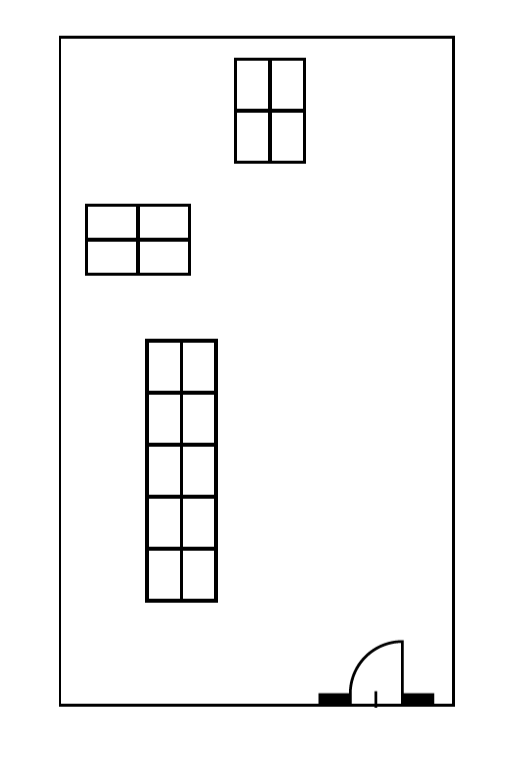
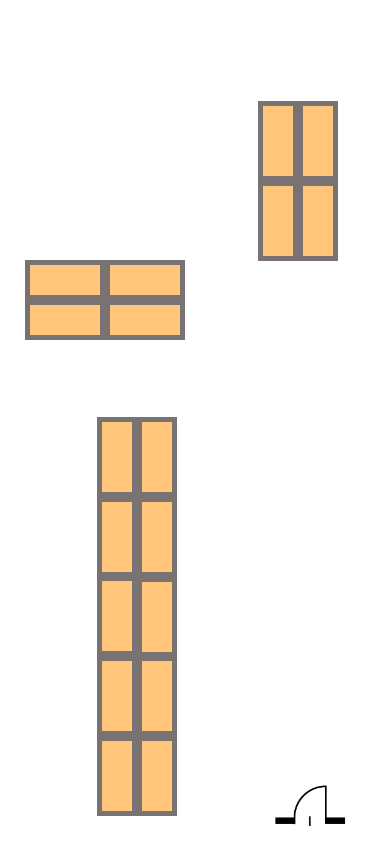
map画像を挿入!

Changed region(s): [[0.0615, 0.0608, 0.9231, 1.0], [0.1231, 0.0304, 0.8923, 0.2431]]

diff --git a/templates/map.html b/templates/map.html
@@ -7,7 +7,8 @@
     <meta name="viewport" content="width=device-width, initial-scale=1.0">
     <link href="https://cdn.jsdelivr.net/npm/bootstrap@5.0.2/dist/css/bootstrap.min.css" rel="stylesheet"
         integrity="sha384-EVSTQN3/azprG1Anm3QDgpJLIm9Nao0Yz1ztcQTwFspd3yD65VohhpuuCOmLASjC" crossorigin="anonymous">
-    <link rel="stylesheet" media="screen and (max-width:480px)" href="static/css/bootstrap.css">
+    <link rel="stylesheet" href="static/css/Bootstrap.css">
+    <link rel="stylesheet" media="screen and (max-width:480px)" href="static/css/stylemobile.css">
 
     <title>map</title>
 
@@ -16,52 +17,23 @@
 <body>
 
     <!--ハンバーガーメニュー-->
-    <nav class="navbar navbar-expand-lg navbar-light bg-light">
-        <div class="container-fluid">
-            <a class="navbar-brand" href="#">Navbar</a>
-            <button class="navbar-toggler" type="button" data-bs-toggle="collapse" data-bs-target="#navbarNav"
-                aria-controls="navbarNav" aria-expanded="false" aria-label="Toggle navigation">
-                <span class="navbar-toggler-icon"></span>
-            </button>
-
-            <div class="collapse navbar-collapse" id="navbarNav">
-                <ul class="navbar-nav">
-                    <li class="nav-item">
-
-    
     <header class = "fixed-top">
-        <nav class="navbar navbar-expand-lg navbar-light bg-light">
+        <nav class="navbar navbar-expand-lg navbar-dark bg-primary">
             <div class="container-fluid">
-                <a class="navbar-brand" href="#">AKIBACO</a>
-                <div class="collapse navbar-collapse" id="navbarNavDropdown">
-                <ul class="navbar-nav ms-auto">
-                <li class="nav-item">
-
-                        <a class="nav-link active" aria-current="page" href="#">利用状況</a>
+              <a class="navbar-brand" href="#">AKIBACO</a>
+                <button class="navbar-toggler" type="button" data-bs-toggle="collapse" data-bs-target="#navbarNav" aria-controls="navbarNav" aria-expanded="false" aria-label="Toggle navigation">
+                    <span class="navbar-toggler-icon"></span>
+                </button>
+                <div class="collapse navbar-collapse" id="navbarNav">
+                    <li class="nav-item">
+                        <a class="nav-link" href="#">利用状況</a>
                     </li>
                     <li class="nav-item">
                         <a class="nav-link" href="#">お知らせ</a>
                     </li>
                     <li class="nav-item">
-
-                        <a class="nav-link" href="#">みんなの声</a>
+                        <a class="nav-link " href="#" >みんなの声</a>
                     </li>
-                </ul>
-            </div>
-        </div>
-    </nav>
-
-                        <a class="nav-link" href="#">チャット</a>
-                    </li>
-                    <li class="nav-item dropdown">
-                    <a class="nav-link dropdown-toggle" href="#" id="navbarDropdownMenuLink" role="button" data-bs-toggle="dropdown" aria-expanded="false">SUNABACO公式リンク </a>
-                    <ul class="dropdown-menu" aria-labelledby="navbarDropdownMenuLink">
-                        <li><a class="dropdown-item" href="#">Action</a></li>
-                        <li><a class="dropdown-item" href="#">Another action</a></li>
-                        <li><a class="dropdown-item" href="#">Something else here</a></li>
-                    </ul>
-                    </li>
-                </ul>
                 </div>
             </div>
         </nav>
@@ -76,12 +48,12 @@
     <!--座席表-->
     <form action="/map" method="post"></form>
     <section id="seat">
-        <h2 class="text-center m-5">利用状況</h2>
+        <h2 class="text-center ">利用状況</h2>
         <div class="container">
             <div class="row">
                 <div class="card col-xl-4 ">
                     <!--画面の大きさでカラムの位置が変わる指定 etc.."col-xl-4 col-md-6"-->
-                    <img src="static/img/doa.png" class="card-img-top" alt="...">
+                    <img src="static/img/doa2.png" class="card-img-top" alt="...">
                 </div>
             </div>
         </div>
@@ -92,7 +64,7 @@
     <!--イベント-->
 
     <section id="event">
-        <h2 class="text-center m-5">お知らせ</h2>
+        <h2 class="text-center ">お知らせ</h2>
         <div class="container">
             <div class="row">
                 <div class="card col-xl-4 ">
@@ -121,7 +93,7 @@
 
     <!--チャット-->
     <section id="chat">
-        <h2 class="text-center m-5">みんなの声</h2>
+        <h2 class="text-center">みんなの声</h2>
 
         <div class="container">
             <div class="chat bg-light p-4">
@@ -153,14 +125,6 @@
     </section>
 
     <!--チャット投稿-->
-    <article>
-
-        {% block content %}
-
-        {% endblock %}
-
-    </article>
-    </form>
 
 
 

diff --git a/templates/top.html b/templates/top.html
@@ -44,19 +44,8 @@
                     パスワード：<input type="password" size="30" maxlength="20" name="password" placeholder="パスワードを入れてね!">
                     <i class="fa fa-user fa-lg fa-fw" aria-hidden="true"></i>
                 </div>
-                <input type="submit" name="save" value="ログイン">
-            </f
-                <form action="/" method="post">
-                    <div class="cp_name">
-                        名    前：<input type="text" size="30" maxlength="20" name="user_name" placeholder="ユーザー名を入れてね!" > 
-                        <i class="fa fa-user fa-lg fa-fw" aria-hidden="true"></i>
-                    </div>
-                    <div class="cp_aaa">
-                        パスワード：<input type="password" size="30" maxlength="20" name="password" placeholder="パスワードを入れてね!">
-                        <i class="fa fa-user fa-lg fa-fw" aria-hidden="true"></i>
-                    </div>
-                    <input type="submit" name="save" value="ログイン" >
-                </form>
+                <input type="submit" name="save" value="ログイン">          
+            </form>
 
         </section>
 

diff --git a/static/css/stylemobile.css b/static/css/stylemobile.css
@@ -1,32 +1,17 @@
-@charset "UTF-18";
-html {
-    overflow-y: scroll;
+#seat .text-center {
+    line-height: 35px;
+    padding: 40px 15px 25px 15px;
+	margin: 50px 20px 4px 20px;
 }
-body, h1, h2, h3, h4, h5, p, ul, ol, li, dl, dt, dd {
-	margin: 0px;
-	padding: 0px;
+
+#event .text-center {
+    line-height: 35px;
+	padding: 10px 15px;
+	margin: 24px 20px;
 }
-body {
-	background: #fff;
-	text-align: center;
-	font-size: 16px;
-	line-height: 1.4;
-	min-width: 100%;
-	-webkit-text-size-adjust: 100%;
-}
-li {
-	list-style: none;
-}
-a {
-	outline: none;
-	color: inherit;
-	text-decoration: none;
-}
-img {
-	border: 0px;
-	vertical-align: bottom;
-}
-/* フォントの指定はコピペしていただいて構いません。 */
-body {
-    font-family: "Noto Sans Japanese", "ヒラギノ角ゴ Pro W3", "Hiragino Kaku Gothic Pro", "ヒラギノ角ゴ ProN W3", "Hiragino Kaku Gothic ProN", "游ゴシック", YuGothic, "メイリオ", "Meiryo", "HGPｺﾞｼｯｸM", "Osaka", "ＭＳ Ｐゴシック", sans-serif, Century Gothic, Arial;
+
+#chat .text-center {
+    line-height: 35px;
+    padding: 10px 15px;
+	margin: 24px 20px;
 }
